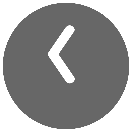
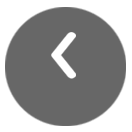
.

Changed region(s): [[0.0, 0.0, 1.0, 1.0], [0.3636, 0.1818, 0.5758, 0.6364]]

diff --git a/Geometry Dash/src/com/framework/Texture.java b/Geometry Dash/src/com/framework/Texture.java
@@ -10,21 +10,44 @@ public class Texture {
 	
 	SpriteSheet bs, ps; //Sprite for Block Sheet (bs) and Player Sheet (ps)
 	
+	//Buttons
+	public BufferedImage titleScreen = null;
+	public BufferedImage buttonLeft = null, buttonRight = null, buttonLeftActive = null, buttonRightActive = null;
+	public BufferedImage buttonPlay = null, buttonPlayActive = null;
+	
+	
 	private BufferedImage block_sheet = null;
 	private BufferedImage player_sheet = null;
 	
 	//array to store the images in
-	public BufferedImage[] block = new BufferedImage[23]; //array has to have the size of different blocks
+	public BufferedImage[] block = new BufferedImage[23]; //array has to have the size of the amount of blocks
 	public BufferedImage[] player = new BufferedImage[8];
 	
 	public Texture() {
+		
+		loadTextures();
+		
+		getTextures();
+	}
+	
+	public void loadTextures() {
 		
 		ImageLoader loader = new ImageLoader();
 		
 		//load the sheets from our files
 		try {
+			//Player and Block Sheet
 			block_sheet = loader.loadImage("/texture/block_sheet.png");
 			player_sheet = loader.loadImage("/texture/player_sheet.png");
+			
+			//Buttons
+			titleScreen = loader.loadImage("/TitleScreen.png");
+			buttonLeft = loader.loadImage("/buttons/buttonLeft.png");
+			buttonLeftActive = loader.loadImage("/buttons/buttonLeftActive.png");
+			buttonRight = loader.loadImage("/buttons/buttonRight.png");
+			buttonRightActive = loader.loadImage("/buttons/buttonRightActive.png");
+			buttonPlay = loader.loadImage("/buttons/Play.png");
+			buttonPlayActive = loader.loadImage("/buttons/PlayActive.png");
 		
 		} catch (Exception e) {
 			e.printStackTrace();
@@ -32,8 +55,6 @@ public class Texture {
 		
 		bs = new SpriteSheet(block_sheet);
 		ps = new SpriteSheet(player_sheet);
-		
-		getTextures();
 	}
 	
 	//assign the images from the sheets to the arrays

diff --git a/Geometry Dash/src/com/window/Menu.java b/Geometry Dash/src/com/window/Menu.java
@@ -24,7 +24,7 @@ public class Menu extends KeyAdapter{
 	private static Game game;
 	private Controller controller;	
 	
-	private int level = 2;
+	private int level = 1;
 
 	public Menu(Game game, Controller controller) {
 		Menu.game = game;
@@ -34,6 +34,7 @@ public class Menu extends KeyAdapter{
 		
 	}
 	
+	//to load graphics from the files
 	public void graphics() {
 		ImageLoader loader = new ImageLoader();
 		
@@ -55,11 +56,16 @@ public class Menu extends KeyAdapter{
 	public void keyPressed(KeyEvent e) {
 		int key = e.getKeyCode();
 		
+		//Space in StartMenu leads to Menu
 		if(game.gameStatus == STATUS.StartMenu) {
 			if(key == KeyEvent.VK_ENTER || key == KeyEvent.VK_SPACE) {
-				game.setGameStatus(STATUS.Menu);
+				//game.setGameStatus(STATUS.Menu);
+				
+				game.setGameStatus(STATUS.Game);
+				controller.startLevel(level);
 			}
 		}		
+		//Actions in MainMenu
 		else if(game.gameStatus == STATUS.Menu) {
 			
 			//Play Button
@@ -127,7 +133,8 @@ public class Menu extends KeyAdapter{
         g.setColor(Color.WHITE);
         g.setFont(fnt2);
         Color buttonYellow = new Color(255,168,0);
-
+        
+        //to render titleScreen
         if(game.gameStatus == STATUS.StartMenu) {
         	g.drawImage(titleScreen, 0, 0, null);
             	

diff --git a/Geometry Dash/src/com/window/Controller.java b/Geometry Dash/src/com/window/Controller.java
@@ -12,11 +12,12 @@ import com.objects.Spike;
 public class Controller {
 
 	//Creates LinkedList with every GameObject in the game
-	public LinkedList <GameObject> object = new LinkedList<GameObject>();
+	public static LinkedList <GameObject> object = new LinkedList<GameObject>();
 	
 	private Camera cam;
 	private BufferedImage level1 = null, level2 = null, level3 = null, level4 = null, level5 = null;
 	public int level = 1;
+	private Game game;
 	
 	
 	public Controller(Camera cam) {
@@ -104,6 +105,8 @@ public class Controller {
 				if(red == 0 && green == 255 && blue == 0) addObject(new Block(xx*64, yy*64, 19, ObjectId.Block));
 				if(red == 255 && green == 255 && blue == 0) addObject(new Block(xx*64, yy*64, 20, ObjectId.Block));
 				if(red == 0 && green == 31 && blue == 0) addObject(new Block(xx*64, yy*64, 21, ObjectId.Block));
+				if(red == 255 && green == 0 && blue == 0) addObject(new Block(xx*64, yy*64, 22, ObjectId.Block));
+				//if(red == 0 && green == 31 && blue == 0) addObject(new Block(xx*64, yy*64, 23, ObjectId.Block));
 				
 				
 				
@@ -139,7 +142,7 @@ public class Controller {
 		}
 	}
 	
-	private void clearLevel() {
+	public static void clearLevel() {
 		object.clear();
 	}
 	

diff --git a/Geometry Dash/src/com/window/Game.java b/Geometry Dash/src/com/window/Game.java
@@ -34,7 +34,7 @@ public class Game extends Canvas implements Runnable{
 	static Texture texture;
 	Menu menu;
 	
-	public STATUS gameStatus = STATUS.StartMenu;
+	public static STATUS gameStatus = STATUS.StartMenu;
 	
 	public static int LEVEL = 1;
 	
@@ -69,6 +69,10 @@ public class Game extends Canvas implements Runnable{
 		return texture;
 	}
 	
+	public static void playerDeath() {
+		Controller.clearLevel();
+		gameStatus = STATUS.Menu;
+	}
 	
 	/*
 	 * The following methods are needed to start the game
@@ -120,7 +124,7 @@ public class Game extends Canvas implements Runnable{
 			
 			if(System.currentTimeMillis() - timer > 1000) {
 				timer += 1000;
-				//System.out.println("FPS: " + frames + " TICKS: " + updates);
+				System.out.println("FPS: " + frames + " TICKS: " + updates);
 				frames = 0;
 				updates = 0;
 			}				

diff --git a/Geometry Dash/src/com/objects/Player.java b/Geometry Dash/src/com/objects/Player.java
@@ -16,6 +16,7 @@ import com.framework.Texture;
 import com.window.Camera;
 import com.window.Controller;
 import com.window.Game;
+import com.window.Game.STATUS;
 
 public class Player extends GameObject{
 	
@@ -33,6 +34,7 @@ public class Player extends GameObject{
 	
 	private Controller controller;
 	private Camera cam;
+	Game game;
 	int skin; //What Skin the player is wearing 
 	
 	public Player(float x, float y, Controller controller, int skin, Camera cam, ObjectId id) {
@@ -124,10 +126,14 @@ public class Player extends GameObject{
 	}
 	
 	public void death() {
-		
-		//Spieler wird entfernt
+		//Remove Player from the game
+		Game.playerDeath();
 		System.out.println("Player died due to collision");
 		controller.removeObject(this);
+		
+		
+		
+		
 		
 	}
 	
